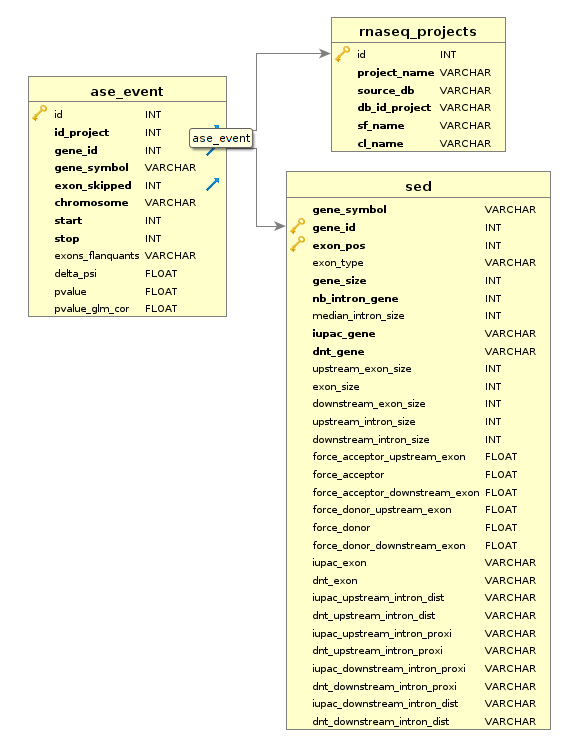
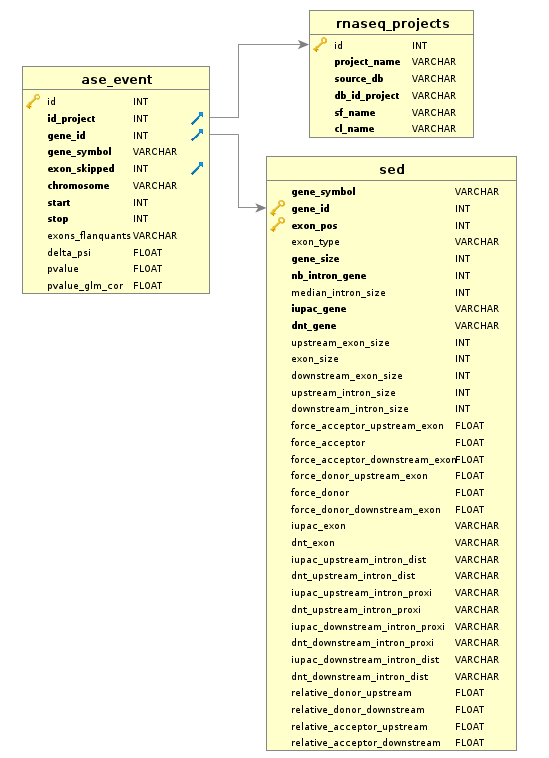
doc/ : update of the doc

Changed region(s): [[0.031, 0.0, 0.9909, 1.0]]

diff --git a/Database_creator/doc/source/sed.rst b/Database_creator/doc/source/sed.rst
@@ -77,7 +77,14 @@ Here is described every field in the table sed:
 +-------------------------------------+----------------------------------------------------------------------------------------------------------------------------------------------------------------------+
 |  dnt_upstream_intron_dist           | The frequency (%) of dinucleotides AA, AC, AG, AT, CA, CC, CG, CT, GA, GC, GG, GT, TA, TC, TG, TT respectively within the region [26;100] of the downstream intron   |
 +-------------------------------------+----------------------------------------------------------------------------------------------------------------------------------------------------------------------+
-
+| relative_donor_upstream             | ((force_donor - force_donor_upstream_exon) / force_donor_upstream_exon) * 100                                                                                        |
++-------------------------------------+----------------------------------------------------------------------------------------------------------------------------------------------------------------------+
+| relative_donor_downstream           | ((force_donor - force_donor_downstream_exon) / force_donor_downstream_exon) * 100                                                                                    |
++-------------------------------------+----------------------------------------------------------------------------------------------------------------------------------------------------------------------+
+| relative_acceptor_upstream          | ((force_acceptor - force_acceptor_upstream_exon) / force_acceptor_upstream_exon) * 100                                                                               |
++-------------------------------------+----------------------------------------------------------------------------------------------------------------------------------------------------------------------+
+| relative_acceptor_downstream        | ((force_acceptor - force_acceptor_downstream_exon) / force_acceptor_downstream_exon) * 100                                                                           |
++-------------------------------------+----------------------------------------------------------------------------------------------------------------------------------------------------------------------+
 
 Description of the **rnaseq_projects** table:
 
